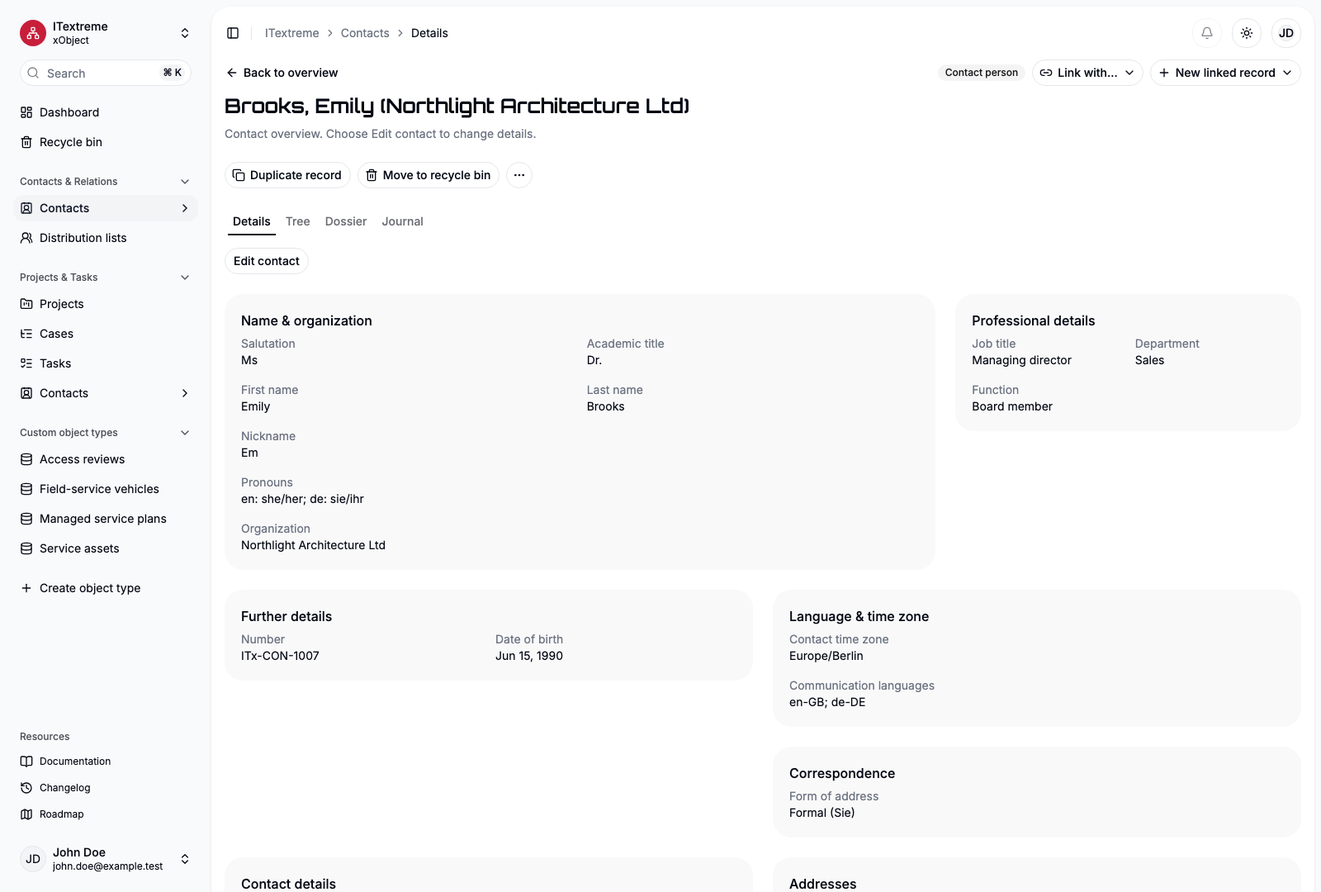
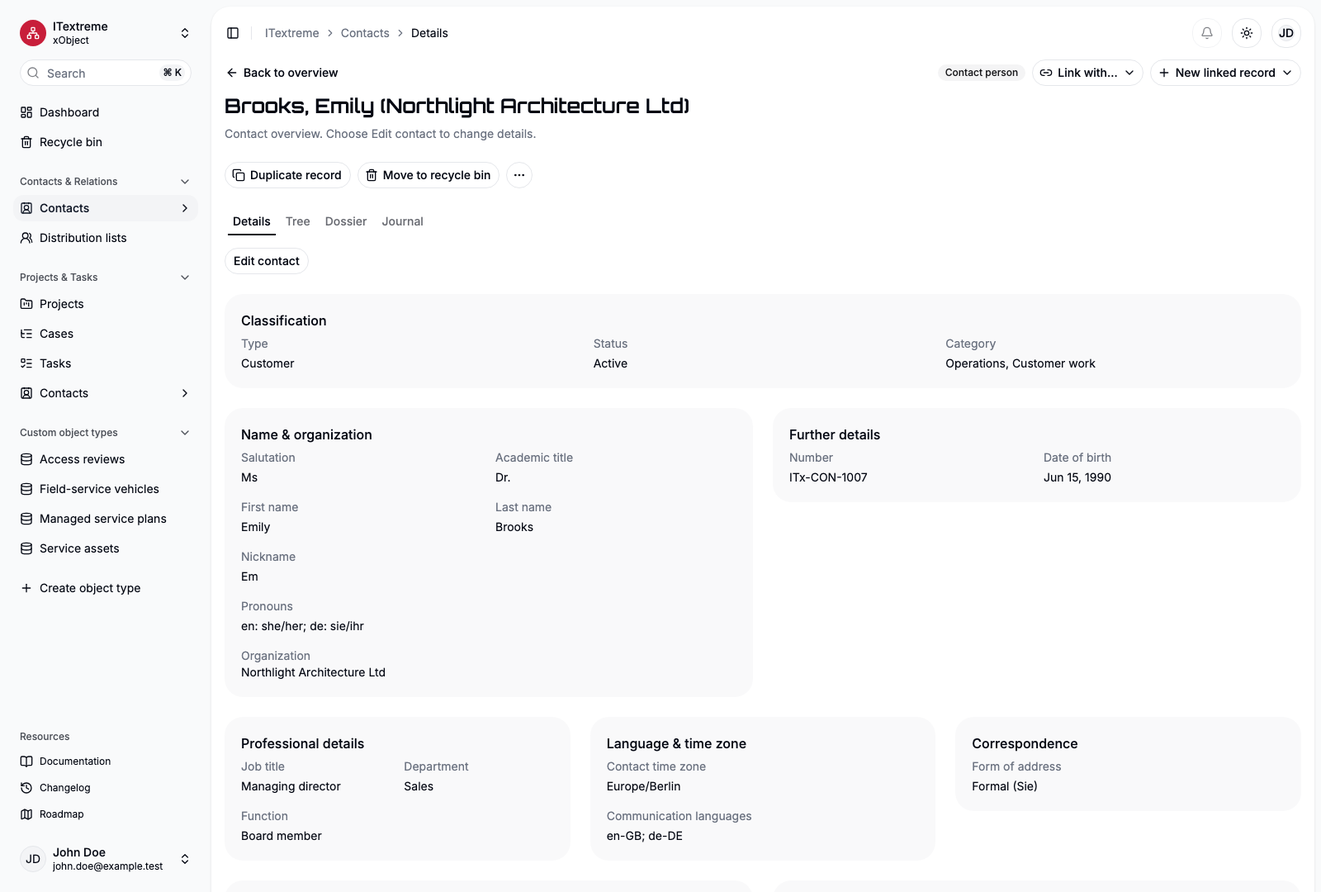
chore(release): prepare Community 1.5.0 and public guidance

diff --git a/apps/site/src/config/content.ts b/apps/site/src/config/content.ts
@@ -106,13 +106,13 @@ export const content = {
     screenshots:
       "Real application views from the fictional ITextreme demo workspace.",
     enDocs: "Documentation is currently available in English.",
-    available: "Community 1.4.0 · Open source",
+    available: "Community 1.5.0 · Open source",
     releaseNotes: "Release notes",
     guide: "Read the guide",
     workflowLabel: "Contact workflows",
     workflowTitle: "Keep contact details connected as people move.",
     workflowText:
-      "Contact people see their organization’s name, central phone/fax, email and addresses separately from their direct details, with own values or explicitly empty exceptions per field. Related contacts can share one configurable list. Guided conversions let an individual join a new or existing organization, or continue independently again. Review the affected records and resulting names before confirming; existing identities, numbers and history stay intact.",
+      "Contact people see their organization’s name, central phone/fax, email and addresses separately from their direct details, with own values or explicitly empty exceptions per field. Related contacts share a configurable list with clear relationship labels; add links directly from the overview and save the reviewed draft. Guided conversions let an individual join a new or existing organization, or continue independently again. Review the affected records and resulting names before confirming; existing identities, numbers and history stay intact.",
     workflowGuide: "How contact changes work",
     captions: {
       project: "A project with its cases and tasks in the shared hierarchy.",
@@ -233,13 +233,13 @@ export const content = {
     screenshots:
       "Echte Anwendungsansichten aus dem fiktiven ITextreme-Demoarbeitsbereich.",
     enDocs: "Die Dokumentation ist derzeit auf Englisch verfügbar.",
-    available: "Community 1.4.0 · Open Source",
+    available: "Community 1.5.0 · Open Source",
     releaseNotes: "Release-Änderungen",
     guide: "Zur Anleitung",
     workflowLabel: "Kontakte im Wandel",
     workflowTitle: "Kontakte passend weiterführen.",
     workflowText:
-      "Ansprechpartner sehen Organisationsname, zentrale Telefon-/Faxnummern, E-Mails und Anschriften getrennt von ihren eigenen Kontaktdaten – mit eigenem Wert oder ausdrücklich leerer Ausnahme pro Feld. Zusammengehörige Kontakte lassen sich in einer gemeinsamen Liste anzeigen. Geführte Umwandlungen verbinden einen Einzelkontakt mit einer neuen oder bestehenden Organisation oder führen Ansprechpartner wieder als Einzelkontakte weiter. Vor der Bestätigung siehst Du die betroffenen Kontakte und ihre künftigen Stichwörter; bestehende IDs, Nummern und Historie bleiben erhalten.",
+      "Ansprechpartner sehen Organisationsname, zentrale Telefon-/Faxnummern, E-Mails und Anschriften getrennt von ihren eigenen Kontaktdaten – mit eigenem Wert oder ausdrücklich leerer Ausnahme pro Feld. Zusammengehörige Kontakte stehen in einer konfigurierbaren Liste mit klarer Verknüpfungsart; ergänze Verknüpfungen direkt aus der Übersicht und speichere den geprüften Entwurf. Geführte Umwandlungen verbinden einen Einzelkontakt mit einer neuen oder bestehenden Organisation oder führen Ansprechpartner wieder als Einzelkontakte weiter. Vor der Bestätigung siehst Du die betroffenen Kontakte und ihre künftigen Stichwörter; bestehende IDs, Nummern und Historie bleiben erhalten.",
     workflowGuide: "So funktionieren Kontaktumwandlungen",
     captions: {
       project:

diff --git a/README.md b/README.md
@@ -6,13 +6,13 @@ xObject is developed by **ITextreme** to bring contacts, projects, cases, tasks 
 
 ## Project status
 
-**Version 1.4.0 — Community.** The PostgreSQL-backed application supports configurable typed objects, classification, workspace roles/groups, shared API/MCP operations and atomic journals. Its React/Vite interface includes searchable tables, full-page record forms, Settings, a Form designer, relationship controls, Dossier and a Projects-owned Primary tree. Dashboard statistics/chart content remains exploratory; its record table is normal application UI.
+**Version 1.5.0 — Community.** The PostgreSQL-backed application supports configurable typed objects, classification, workspace roles/groups, shared API/MCP operations and atomic journals. Its React/Vite interface includes searchable tables, full-page record forms, Settings, a Form designer, relationship controls, Dossier and a Projects-owned Primary tree. Dashboard statistics/chart content remains exploratory; its record table is normal application UI.
 
 The permission model combines user/group object and field ceilings, separate Create rights, graded ownership and nested-group/foreign-access inheritance. Sensitive records configure Access principals, public access, Personal/Confidential privacy, foreign maxima and field exceptions. Membership and Designer status grant no content by themselves; Administrators retain installation-wide content access. See [PRD section 4](docs/PRD.md#4-permissions) and [ADR 0027](docs/adr/0027-ownership-and-foreign-access.md). Calendar-only operations and notification delivery remain later work.
 
 Contacts & Relations supplies Contacts and Distribution lists. Projects & Tasks reuses the same Contacts and adds Projects, Cases and Tasks, including the fixed Contact → Project → Case Primary association. These five supplied object types, user-defined models, record lifecycle, shared forms and workspace settings are part of the released V1 baseline. See the [user guide](docs/user-guide.md) for behavior and the [quality report](docs/quality-acceptance.md) for acceptance evidence and its limits.
 
-Version 1.4.0 adds compact Contact overviews, shared configurable relationship tables and Contact-person affiliations, with scalable permission queries and safe user-scoped creation retries across web/API/MCP. Stable error codes and mobile Safe Areas improve recovery and operation. Supported stopped-writer upgrades from 1.0.0–1.3.0 preserve existing records, numbers, configuration and history. See the [release changelog](CHANGELOG.md#140---2026-11-12) and [scoped validation evidence](docs/quality-acceptance.md).
+Version 1.5.0 improves Contact reading with classification labels, category paths and inheritance provenance. Link Contacts directly from the overview through the normal Save/Reset draft, arrange mixed relationship lists and opt into professional columns or General relationships in the Form designer. Searchable category-tree filters keep their query semantics; journal details show full collections. Supported stopped-writer upgrades from 1.0.0–1.4.0 preserve existing records, numbers, authored configuration and history. See the [release changelog](CHANGELOG.md#150---2026-11-12) and [scoped validation evidence](docs/quality-acceptance.md).
 
 Documents & Communication, personal table layouts, Contact maintenance and Previous/Next record navigation remain planned for V2; additional Contacts/Projects objects and further modules have no release assignment. The [roadmap](ROADMAP.md) owns that public overview.
 
@@ -61,7 +61,7 @@ Community 1.2.0 delivers guided Contact-kind changes and Contact-person inherita
 
 PostgreSQL holds application definitions, records, relationships and history. Git is used for source code and project documentation. Using or self-hosting xObject does not require a Git account or a user-owned repository.
 
-The backend uses Fastify, Kysely with `pg`, Better Auth and the official TypeScript MCP SDK. Dependency versions are recorded in the package manifests and lockfile. The application uses a current fresh-installation baseline, deferred record-registry checks, versioned field edits and separate operator/runtime database roles under [ADR 0022](docs/adr/0022-database-integrity-and-concurrency.md). Installation and maintenance are described in the [self-hosting guide](docs/self-hosting.md). The [quality report](docs/quality-acceptance.md) records the accepted scope and remaining coverage limits. Released upgrades to 1.4.0 use dedicated maintenance tooling to reach the exact target schema from 1.0.0–1.3.0 while preserving records and history. Native image acceptance is recorded in the quality report.
+The backend uses Fastify, Kysely with `pg`, Better Auth and the official TypeScript MCP SDK. Dependency versions are recorded in the package manifests and lockfile. The application uses a current fresh-installation baseline, deferred record-registry checks, versioned field edits and separate operator/runtime database roles under [ADR 0022](docs/adr/0022-database-integrity-and-concurrency.md). Installation and maintenance are described in the [self-hosting guide](docs/self-hosting.md). The [quality report](docs/quality-acceptance.md) records the accepted scope and remaining coverage limits. Released upgrades to 1.5.0 use dedicated maintenance tooling to reach the exact target schema from 1.0.0–1.4.0 while preserving records and history. Native image acceptance is recorded in the quality report.
 
 ## Documentation and development
 

diff --git a/ROADMAP.md b/ROADMAP.md
@@ -2,7 +2,7 @@
 
 This is xObject's public product direction. OpenProject leads operational planning; the [PRD](docs/PRD.md) defines requirements and the [changelog](CHANGELOG.md) records delivered changes. Future targets have no committed dates, and only explicitly assigned versions are shown as such.
 
-## Currently released — Community 1.4.0
+## Currently released — Community 1.5.0
 
 - **Connected data:** configurable objects, fields, relationships, forms and journals, with workspace isolation and differentiated user/group permissions.
 - **Contacts and projects:** Contacts & Relations supplies Contacts and Distribution lists; Projects & Tasks adds Projects, Cases and Tasks using the same Contacts.
@@ -11,7 +11,7 @@ This is xObject's public product direction. OpenProject leads operational planni
 - **Web, API and AI:** a responsive web application, shared REST/MCP operations, personal credentials, OAuth and supplied agent skills. Live refresh preserves open drafts.
 - **Self-hosting:** published Linux/AMD64 and Linux/ARM64 containers, Docker Compose setup, first-Administrator provisioning and backup/restore tooling. Version 1.0.2 adds a supported authorization-journal migration from 1.0.0/1.0.1 while retaining data, credentials and history.
 
-See [release notes](CHANGELOG.md#140---2026-11-12), [downloadable releases](https://github.com/ITextremeDE/xobject/releases) and the [quality report](docs/quality-acceptance.md) for details and verified coverage. The English/German product website and English documentation are also published independently; [versioned documentation snapshots](docs/versions.md) retain each released baseline.
+See [release notes](CHANGELOG.md#150---2026-11-12), [downloadable releases](https://github.com/ITextremeDE/xobject/releases) and the [quality report](docs/quality-acceptance.md) for details and verified coverage. The English/German product website and English documentation are also published independently; [versioned documentation snapshots](docs/versions.md) retain each released baseline.
 
 ### Contact workflows in 1.2.0–1.3.0
 
@@ -30,9 +30,11 @@ ADR 0038 defines these V1 extensions. Dedicated maintenance tooling upgrades sup
 
 The [changelog](CHANGELOG.md#unreleased) records the source changes; the [quality report](docs/quality-acceptance.md) records acceptance and remaining platform limits. Community 1.4.0 delivers these additions; acceptance and retained platform limits are recorded separately.
 
-## Implemented in source — awaiting the next release
+### Contact interface and configuration in 1.5.0
 
-Contact UI corrections add readable classification and inheritance details, a searchable category-tree filter, direct relationship drafts from the overview, configurable mixed Contact lists and professional columns, and complete collection values in journal details. Existing authored forms are preserved. This source work does not change the published 1.4.0 baseline; release and deployment remain separate steps.
+- **Readable Contacts:** classification labels, category paths, inheritance provenance and extension values in a compact overview/editor layout.
+- **Direct relationship work:** mixed configurable Contact lists with normal Save/Reset drafts from the overview, optional professional columns and explicit General-list placement.
+- **Clear filtering and history:** searchable category-tree criteria, unique accessible search controls and complete collection values in journal details.
 
 ## Planned — Version 2
 

diff --git a/docs/quality-acceptance.md b/docs/quality-acceptance.md
@@ -416,3 +416,13 @@ Validation on the working branch: application build and root typecheck/OpenAPI d
 Rendered desktop/mobile captures from fictional data were inspected. The interactive Chrome check reached local sign-in and the Contact list, then an extension overlay blocked further automation. Automated Chromium evidence supplies the remaining interaction checks; this is not a completed manual Chrome or native Safari/VoiceOver acceptance. Physical mobile devices, production deployment and capacity testing were not repeated. The existing shared-chunk size advisory remains. Public documentation builds with its internal link/asset/anchor check; production contact values are not test fixtures or public evidence.
 
 These are unreleased source checks. They do not establish a new published version or application deployment.
+
+## Community 1.5.0 release preparation — 2026-11-12
+
+The release combines the Contact UI corrections above with the removal of duplicate visible labels in single-field read sections; accessible field terms remain available. Package versions, workspace dependencies, changelog, public guidance and fictional Contact illustrations are aligned at 1.5.0. The schema and supplied-catalog fingerprint is unchanged from 1.4.0; authored forms are retained. No dependency upgrade or component/theme-token override is introduced.
+
+A clean npm installation, root typecheck/contract check and application build passed, as did 163 Web tests and five packaging checks. Documentation checks/build/tests passed, including 70 generated pages and 7,275 link/asset/anchor checks. The product-site typecheck/build and localized production-CSP browser suite passed. The preceding source PR/main passed all seven required checks, including complete Chromium and Firefox workflows; the release PR must pass them again.
+
+Targeted Playwright WebKit 27.2 checks passed for Contact affiliations, default sorting, overview drafts, category-tree filtering and the central Organization/combined-list workflow. The latter inspects light and dark mobile forms in separate pages with every configured axe rule enabled. An earlier same-page theme-transition audit intermittently reported gray readonly-input text while computed foreground/text-fill and screenshots showed the normal light text; its cause remains unconfirmed. This is a measurement discrepancy to retain for follow-up, not proof of a corrected WebKit transition or native Safari acceptance. The harness waits for rendered frames/finite animations and retains failure diagnostics. Native Safari/VoiceOver and physical mobile/PWA acceptance were not repeated.
+
+Native AMD64/ARM64 image acceptance, including the exact immutable installed 1.4.0 predecessor, matching public artifacts, retained documentation and production recovery/readback remain release gates. The existing shared-chunk build advisory and development-only dependency findings retain the scope stated in the 1.4.0 acceptance above.

diff --git a/docs/releasing.md b/docs/releasing.md
@@ -29,7 +29,7 @@ node scripts/test-selfhost.mjs
 
 For private offline recovery, retain an image archive with `docker image save xobject:local-acceptance | gzip > xobject-local-image.tar.gz` and record its SHA-256. Load it with `docker image load` before using the installer. Local image identifiers are not published registry digests. A local candidate is not a user-facing release. Versions 1.0.0 and 1.0.1 share the complete schema/catalog/auth fingerprint: upgrading requires backup, stopped writers and target/integrity verification, with no SQL conversion.
 
-For releases from 1.3.0 onward, the native image workflow requires fresh installation and upgrades from the immutable published 1.0.1, 1.0.2, 1.1.0, 1.2.0 and 1.3.0 images on both supported architectures. It checks retained record values, versions and Journal, including an installed Contacts module and Contact record. The 1.1.0 predecessor is pinned to its published multi-platform digest `sha256:84732cb65fc9d9a1e0d2cc93d6700d24bfe5f5c29a3839eb8033446ef77db68d`. The installed 1.2.0 predecessor is pinned to `sha256:446d8fcd53478909c4828abfe9f3aede39e2b39f415756ac838aa847e4d0d6b4`. A configured gate alone is not a passed image run: require a successful run on the final release commit. The 1.3.0 predecessor is pinned to `sha256:4c78ebdf11b8879566259fdb9314c63d4ef52b3b14f4ece80b6335812ae7fdb0`. Source-level upgrade scenarios and the PR container checks do not replace it. Unknown schemas fail closed. Dedicated migrations reach the complete target model before runtime starts.
+For releases from 1.3.0 onward, the native image workflow requires fresh installation and upgrades from the immutable published 1.0.1, 1.0.2, 1.1.0, 1.2.0, 1.3.0 and 1.4.0 images on both supported architectures. It checks retained record values, versions and Journal, including an installed Contacts module and Contact record. The 1.1.0 predecessor is pinned to its published multi-platform digest `sha256:84732cb65fc9d9a1e0d2cc93d6700d24bfe5f5c29a3839eb8033446ef77db68d`. The installed 1.2.0 predecessor is pinned to `sha256:446d8fcd53478909c4828abfe9f3aede39e2b39f415756ac838aa847e4d0d6b4`. A configured gate alone is not a passed image run: require a successful run on the final release commit. The 1.3.0 predecessor is pinned to `sha256:4c78ebdf11b8879566259fdb9314c63d4ef52b3b14f4ece80b6335812ae7fdb0`. The 1.4.0 predecessor is pinned to `sha256:b8980025f4209bbecb602a56bb4a03226c3296c9829edc55d155aab83a6444f6`. Source-level upgrade scenarios and the PR container checks do not replace it. Unknown schemas fail closed. Dedicated migrations reach the complete target model before runtime starts.
 
 ## Publish after explicit authorization
 

diff --git a/AGENTS.md b/AGENTS.md
@@ -10,7 +10,7 @@ OpenProject is the source for operational tasks, priorities and dependencies. Th
 
 ## Current state and commands
 
-The repository contains the backend in `apps/server`, with npm workspaces, a lockfile and a GitHub checks workflow. The React/Vite web client in `apps/web` uses shared contracts in `packages/contracts`. Version 1.0.0 is the first Community container/Compose release baseline; release artifacts and image digests are published through the documented release workflow. The application supports typed custom fields, shared Type/Status/Category configuration and workspace User/Designer memberships. Content access follows administrative ceilings, graded ownership and foreign access in ADR 0027; Community 1.4.0 is the current release with compact Contact overviews, unified relationship lists, Contact-person affiliations, bounded permission queries and safe creation retries; dedicated tooling upgrades exact supported released fingerprints; later targets and retained acceptance limits are documented separately in the PRD, roadmap and quality report.
+The repository contains the backend in `apps/server`, with npm workspaces, a lockfile and a GitHub checks workflow. The React/Vite web client in `apps/web` uses shared contracts in `packages/contracts`. Version 1.0.0 is the first Community container/Compose release baseline; release artifacts and image digests are published through the documented release workflow. The application supports typed custom fields, shared Type/Status/Category configuration and workspace User/Designer memberships. Content access follows administrative ceilings, graded ownership and foreign access in ADR 0027; Community 1.5.0 is the current release with readable compact Contact overviews, configurable mixed relationship lists, optional professional columns/General sources, independent category-tree filters and complete journal details; it retains the 1.4.0 affiliations, bounded permission queries and safe creation retries; dedicated tooling upgrades exact supported released fingerprints; later targets and retained acceptance limits are documented separately in the PRD, roadmap and quality report.
 
 From the repository root, use `npm ci`, `npm run typecheck`, `npm run build` and `npm test`. Tests require Docker and start an isolated disposable PostgreSQL container. See `docs/development.md` for `npm run db:init`, `npm run admin:create` and `npm run dev`; never point experimental initialization at a production database. No lint command is established.
 

diff --git a/docs/self-hosting.md b/docs/self-hosting.md
@@ -104,6 +104,10 @@ Only exact published 1.0.0/1.0.1, 1.0.2, 1.1.0 and 1.2.0 fingerprints are accept
 
 The current source also accepts the exact Community 1.3.0 fingerprint. Its maintenance upgrade expands supplied Organization affiliations to include Contact persons alongside Individuals, preserves relationship identities, custom labels, existing links and history, and journals the definition change atomically. The single main Organization and its inherited fields remain independent. A repeated upgrade is a no-op. Use the matching 1.4.0 installer and immutable image; creation-retry storage is installed in the same stopped-writer upgrade.
 
+### Upgrade to Community 1.5.0
+
+Use the matching 1.5.0 installer and immutable image through the same stopped-writer backup/upgrade/verify procedure. The complete 1.4.0 schema/catalog fingerprint is unchanged; no additional SQL conversion is needed. Earlier supported released fingerprints still migrate to this same complete target model before serving requests. Optional form metadata extends presentation without changing data or rights. Existing authored forms, including deliberately grouped Contact relationships, are retained; the new Contact-list proposal applies to fresh module objects.
+
 ## Use an existing reverse proxy
 
 Keep the dedicated application/database project and use `XOBJECT_START_SERVICES=app` to leave the supplied proxy stopped. Select a private Compose override with `XOBJECT_COMPOSE_OVERRIDE`: connect `app` to the existing proxy network, assign a unique network alias and override its `TRUSTED_PROXIES` environment variable with the proxy's actual fixed address/CIDR. Avoid broad trust ranges. Keep PostgreSQL unpublished and on its internal network; the app needs no public port mapping.

diff --git a/docs/versions.md b/docs/versions.md
@@ -1,6 +1,6 @@
 # Documentation versions
 
-The current documentation targets xObject 1.4.0. Choose a retained snapshot when your installation runs an earlier version. Released snapshots are retained at [1.4.0](https://docs.xobject.org/versions/1.4.0/), [1.3.0](https://docs.xobject.org/versions/1.3.0/), [1.2.0](https://docs.xobject.org/versions/1.2.0/), [1.1.0](https://docs.xobject.org/versions/1.1.0/), [1.0.2](https://docs.xobject.org/versions/1.0.2/), [1.0.1](https://docs.xobject.org/versions/1.0.1/) and [1.0.0](https://docs.xobject.org/versions/1.0.0/).
+The current documentation targets xObject 1.5.0. Choose a retained snapshot when your installation runs an earlier version. Released snapshots are retained at [1.4.0](https://docs.xobject.org/versions/1.4.0/), [1.3.0](https://docs.xobject.org/versions/1.3.0/), [1.2.0](https://docs.xobject.org/versions/1.2.0/), [1.1.0](https://docs.xobject.org/versions/1.1.0/), [1.0.2](https://docs.xobject.org/versions/1.0.2/), [1.0.1](https://docs.xobject.org/versions/1.0.1/) and [1.0.0](https://docs.xobject.org/versions/1.0.0/).
 
 The selected canonical documentation origin is **https://docs.xobject.org**. Current documentation uses its root; a released snapshot uses `/versions/<version>/`. Building a snapshot uses `XOBJECT_DOCS_VERSION=<version>` and the corresponding source ref. The source generator and Starlight build rewrite internal links to that base, so a snapshot stays within its own version. Changelog and roadmap come from their canonical repository files rather than manually maintained copies.
 

diff --git a/docs/forms.md b/docs/forms.md
@@ -30,6 +30,8 @@ Move the desired to-many relationship sides into a full-width group, name it and
 
 New Contacts-module templates suggest **Contact relationships / Kontaktbeziehungen** for these supplied sides. Existing authored layouts are retained; apply the grouping explicitly in the designer when needed. The template is a starting arrangement, not a special table implementation or a reserved group name.
 
+![A fictional ITextreme Contact relationship table, with relationship type, linked Contact and the plus control.](../apps/site/src/assets/screenshots/relationships-en-light.png)
+
 The **Object type column** preference is available on combined groups and individual to-many entries: **Automatic**, **Show** or **Hide**. Automatic uses allowed endpoint definitions, including for an empty list, and omits the column for a single target object. Enable **Contact-person professional columns** separately when Job title, Department and Function are useful for that list. Their values remain permission-filtered; family lists can keep the lean presentation. Both preferences also apply to the selection dialog.
 
 Use **Add General relationship to the form** to place that existing relationship explicitly, individually or in a combined group. It otherwise remains available through the header and Dossier. The Primary chain is excluded from combined lists. Expansion settings apply to individual collapsible lists; combined groups display a table directly.

diff --git a/docs/PRD.md b/docs/PRD.md
@@ -42,7 +42,7 @@ Later integrations must preserve the authority and access rules of their source 
 
 ### 1.3 Agreed V2 scope
 
-V2 is planned to deliver the following four themes. Version 1.4.0 is the current Community release; no V2 delivery date is committed. OpenProject leads operational planning and the [roadmap](../ROADMAP.md) provides the public overview.
+V2 is planned to deliver the following four themes. Version 1.5.0 is the current Community release; no V2 delivery date is committed. OpenProject leads operational planning and the [roadmap](../ROADMAP.md) provides the public overview.
 
 | V2 theme | Requirement and specification status |
 | --- | --- |
@@ -55,7 +55,9 @@ The 11 additional Contacts objects and six additional Projects objects have no r
 
 <span id="14-planned-community-120"></span>
 
-### 1.4 Community 1.2.0–1.4.0 release scope
+### 1.4 Community 1.2.0–1.5.0 release scope
+
+Community 1.5.0 refines Contact reading, independent category-tree query selection, configurable mixed relationship lists and professional columns, explicit General placement and complete journal details. Existing authored forms and the shared versioned writer remain.
 
 Community 1.4.0 adds compact Contact reading, unified configurable relationship lists, Contact-person affiliations and safe creation retries. Transaction-local permission queries preserve the existing rights contract; ADR 0039 records the implementation.
 

diff --git a/docs/adr/0025-modules-and-form-views.md b/docs/adr/0025-modules-and-form-views.md
@@ -89,7 +89,7 @@ Fresh supplied forms reserve the module-gated Primary association group before C
 
 The four guided Contact-kind conversions move from V2 to planned Community 1.2.0. The same release adds main-Organization field inheritance for Contact persons with explicit per-field own-value exceptions and a combined disable action. PRD sections 1.4 and 6.1 own the requirements (R-064/R-065); ADR 0038 now specifies the resolved field mappings, sparse storage and permission-aware effective-value contracts for the unreleased implementation. The fixed Contact-kind form cores and shared business-logic architecture remain. Contact maintenance and duplicate detection/merge stay in V2. This supersedes only the conversion release assignment above and makes no delivery claim.
 
-## Presentation refinement — 2026-11-12 (unreleased)
+## Presentation refinement — 2026-11-12 (Community 1.5.0)
 
 Combined groups may include explicitly placed General relationship sides, alongside supplied/custom to-many sides. The Primary chain and maximum-one controls remain separate. General is not automatically added to authored forms. Optional `professionalColumns` metadata on a list group or entry controls Contact-person Job title/Department/Function columns in the table and picker; the default is the lean list. Object-column preferences retain their existing semantics.
 

diff --git a/CHANGELOG.md b/CHANGELOG.md
@@ -4,6 +4,8 @@ All notable changes to xObject are documented here, using [Keep a Changelog](htt
 
 ## [Unreleased]
 
+## [1.5.0] - 2026-11-12
+
 ### Added
 
 - Configure Contact-person professional columns independently for each relationship list and its picker. Add General relationships explicitly to a form or combined list through the designer.
@@ -235,7 +237,8 @@ First Community release under `AGPL-3.0-only`, maintained by Jürgen Schadek und
 
 - Exclude private backup/recovery environment files from Git, build contexts and commit-bound public source archives. Resume unchanged containers after backups with supported Compose v2 commands, reserve the proxy address outside the dynamic pool and keep diagnostics bounded and free of private payloads.
 
-[Unreleased]: https://github.com/ITextremeDE/xobject/compare/v1.4.0...HEAD
+[Unreleased]: https://github.com/ITextremeDE/xobject/compare/v1.5.0...HEAD
+[1.5.0]: https://github.com/ITextremeDE/xobject/compare/v1.4.0...v1.5.0
 [1.4.0]: https://github.com/ITextremeDE/xobject/compare/v1.3.0...v1.4.0
 [1.3.0]: https://github.com/ITextremeDE/xobject/compare/v1.2.0...v1.3.0
 [1.2.0]: https://github.com/ITextremeDE/xobject/compare/v1.1.0...v1.2.0
